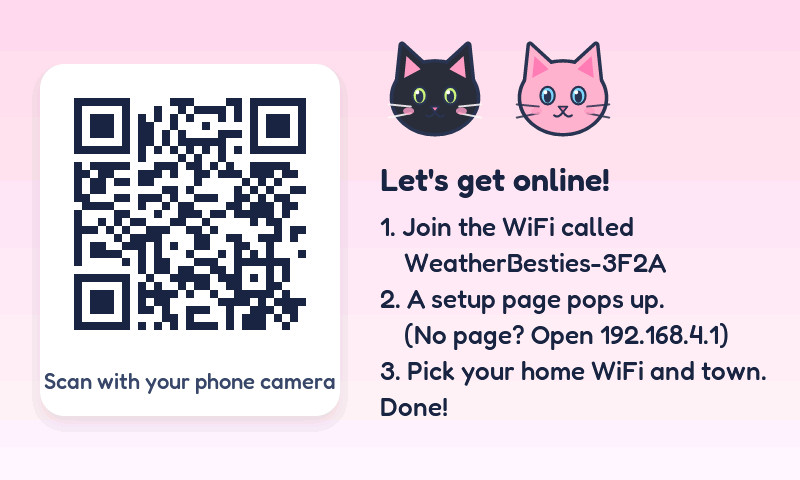
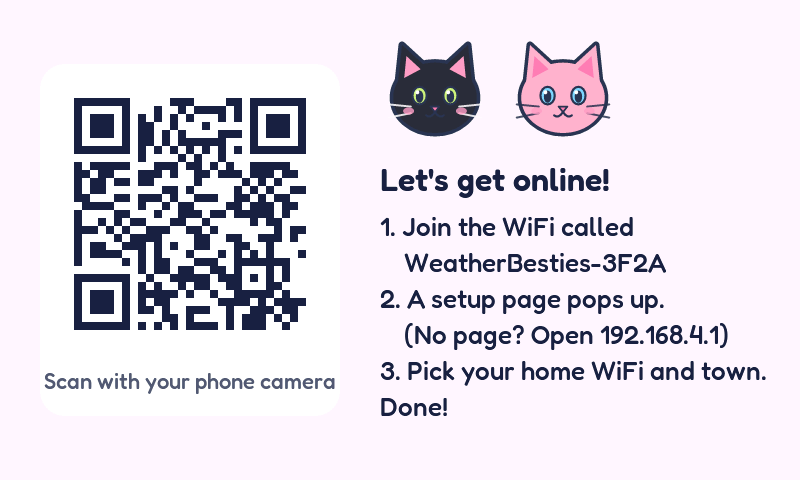
README and screenshots for 2.0
docs/today.png, evening.png and next-days.png are the new renders
(20_morning, 21_evening, 24_next_days); sim/out drops the 1.x
screenshots and gains the full 2.0 set. The README describes the
outfit tiles, the check-off flow, stale-data behavior and the cat
picker, and notes the firmware/ images are still v1.4.0 until an
ESP-IDF build refreshes them.

diff --git a/README.md b/README.md
@@ -12,18 +12,19 @@ This is not a general weather dashboard. It answers one kid-sized question in wo
 
 **What kind of clothes do I need?**
 
-- **The night before:** after 7 PM, the advice switches to tomorrow, so they can lay out clothes before bed.
+- **The night before:** from 5 PM, the screen switches to tomorrow, so they can lay out clothes before bed.
 - **In the morning:** they can see right away if it is going to be cold, rainy, snowy, or warm, and whether yesterday's plan still works.
 
-## What it shows
+## What it shows (new in 2.0)
 
-- **Top left:** the weather right now in big friendly type, a weather picture, and one line like "Partly cloudy · High 61°".
-- **Middle:** a black cat with yellow eyes, dressed for the day, and a speech bubble that is the cat talking: "Chilly morning! Bring a jacket!" with pictures of what to wear (jacket, beanie, mittens, umbrella, boots...), picked from feels-like temperature, rain, snow, storms, and sun.
-- **Bottom:** the school day in their words: **Walk to school** (8 AM), **Recess** (noon), **Going home** (3 PM). Swipe left for the next three days.
-- Weather moves behind the today page: rain, snow, sleet, thunderstorms, autumn leaves on fall days, stars on clear nights.
-- The cat dresses up for October (witch hat and a jack-o'-lantern), Hanukkah (scarf and a menorah that gains a candle each night), and Christmas (Santa hat and a present). Otherwise it dresses for the weather.
-- After 7 PM the bubble switches to tomorrow, so they can lay out the right clothes before bed.
-- **Bike bus day** (Friday by default): if the 8 AM feels-like is 50°F or below, the bubble reminds everyone to wear gloves for bike bus. The evening before, it says to lay them out.
+- **Garment tiles:** big picture tiles for exactly what to wear (long sleeves, long pants, warm coat, sneakers...), picked by the outfit engine in `components/wb_ui/outfit.c` from the feels-like temperature over the school day (7 AM to 5 PM), rain, snow, storms, wind, and sun. Tap a tile as each item gets laid out: it turns green with a check. Check them all and the screen celebrates: "All dressed. Have a great day!"
+- **The cat, full body:** a cat wearing the same outfit the tiles recommend, so the picture and the list always agree. One plain sentence under the tiles explains the day: "Cold this morning, warm after lunch. Take your warm coat off later." An icon next to it flags the one important extra (umbrella, hat and gloves, water bottle, storm bolt...).
+- **Top right:** the weather in words a kid can use: "33° now", "High 64° · Low 32°". Tomorrow gets "High 55°" and "Low 46° · Rain 80%".
+- **Tabs at the bottom:** Today, Tomorrow, and Next days (three plain forecast cards with the one key garment for each day). Swipe works too. After 3 idle minutes the screen falls back to the page for the time of day.
+- **Honest about stale data:** if the weather is over 90 minutes old, a chip says when it is from ("Weather from 11:45 AM"). Over 12 hours (or no data), the cat looks puzzled and says "I can't check the weather right now." instead of prescribing from stale numbers.
+- The cat dresses up for October (witch hat and a jack-o'-lantern), Hanukkah (a menorah that gains a candle each night), and Christmas (Santa hat and a present), but a real prescription always wins: a cold Halloween gets the warm hat, not the witch hat.
+- **Bike bus day** (Friday by default): if the 8 AM feels-like is 50°F or below, the sentence reminds everyone to wear gloves for bike bus. The evening before, it says to lay them out.
+- **Your cat, your choice:** Settings (long press) now has a cat picker: black cat, pink cat, or take turns (they swap daily). The two boot-screen cats are the same pair.
 - An optional "screen off at night" mode. A tap wakes the screen for a minute.
 
 ![Evening screen](docs/evening.png)
@@ -46,6 +47,8 @@ Weather data comes from [Open-Meteo](https://open-meteo.com): free for non-comme
 
 ## Flash it
 
+Note: the 2.0.0 source is on `main`, but the prebuilt images in `firmware/` are still v1.4.0. Refreshing them takes an ESP-IDF build (`idf.py build`, then `esptool merge_bin` for the full image); flashing the source build works as described under "Build from source" below.
+
 Both files are in `firmware/`:
 
 - **First time (or to start fresh):** `weather-besties-v1.4.0.bin` at address `0x0`. It's the whole thing (bootloader, partition table, and app), and it wipes saved WiFi and town, so setup runs again.
@@ -66,7 +69,7 @@ python -m esptool --chip esp32s3 write_flash 0x10000 firmware/weather-besties-v1
 
 1. The screen shows a QR code and a hotspot name like `WeatherBesties-3F2A`.
 2. Scan the QR with a phone (or join that WiFi network by hand). A setup page pops up. If it doesn't, open `http://192.168.4.1`.
-3. Pick the home WiFi, type the password, then set: town or ZIP, names for the greeting, °F or °C, bike bus day, and optional night hours. Save.
+3. Pick the home WiFi, type the password, then set: town or ZIP, the kids' names (used in the "Nice job" message), °F or °C, bike bus day, and optional night hours. Save.
 4. The board restarts, joins WiFi, and shows the weather.
 
 ![Setup screen](docs/setup.png)
@@ -75,24 +78,20 @@ Defaults if you skip things: Upper Montclair, NJ, "Cleo & Lila", Fahrenheit, bik
 
 ## Using it
 
-- Swipe left for the next three days, right to come back. The page flips the moment the finger lifts (no dragging: moving the whole screen under a finger is the slowest thing this chip draws). A swipe is 80 px or more sideways from where the finger went down (`on_indev()` in `ui.c`); a finger that moved that far doesn't count as a tap or a long press.
-- Hold your finger on the greeting, the clock, or any empty spot for 1.5 seconds to open Settings (change WiFi or town, refresh now). Settings are stored on the board and survive reboots and app updates.
-- The school-day cards: moments that already happened fade out, and after 3:30 PM the cards switch to tomorrow. Weekends, July and August, and Dec 24 to Jan 1 show Morning (9 AM), Lunchtime and Afternoon instead (`wx_kid_moments()` in `components/wb_ui/wx.c`; other days off still say "Walk to school"). The rain chance only shows at 30% or more.
-- The next-days page compares each day with the one before: warmer or colder (by the daily high), sunnier or cloudier (by hours of sun). A drop of 12°F or more says "a lot colder" and adds gloves.
-- Weather animations: rain, drizzle, heavy rain, sleet, snow, thunderstorms (rain plus a lightning flicker every 5-10 s), autumn leaves (Sep 22 to Nov 30), and twinkling stars on clear nights. The rules are `cat_pick_fx()` in `cat.c`; the motion is one 30 fps timer in `ui.c` (`fx_tick()`), and pieces only fall in the open sky left of the bubble and above the cards.
+- Tap the garment tiles to check things off as they get laid out. The check marks belong to the outfit's day: a new day starts unchecked.
+- Use the Today / Tomorrow / Next days tabs, or swipe left and right. The page flips the moment the finger lifts (no dragging: moving the whole screen under a finger is the slowest thing this chip draws). A swipe is 80 px or more sideways from where the finger went down (`on_indev()` in `ui.c`); a finger that moved that far doesn't count as a tap or a long press. After 3 idle minutes the screen returns to the page for the time of day (Today before 5 PM, Tomorrow from 5 PM).
+- Hold your finger on any empty spot for 1.5 seconds to open Settings (cat choice, change WiFi or town, refresh now, speed test). Settings are stored on the board and survive reboots and app updates.
 - With "screen off at night" on, the screen sleeps during those hours. A tap wakes it for a minute (that first tap doesn't press anything). Weather keeps updating in the background, so the morning screen is fresh.
-- The cat sits on the school-day cards next to its speech bubble. It blinks, and hops when you tap it. What it wears (rules in `components/wb_ui/cat.c`):
-  - **October:** witch hat, purple cape with an orange bow, and a jack-o'-lantern.
-  - **Hanukkah:** blue-and-white scarf and a menorah. Candles light at 4 PM, one more each night, added from the right. Dates come from Hebcal for 2025-2035; add years to the `HANUKKAH` table after that.
+- The cat blinks, and hops when you tap it. What it wears is the outfit engine's prescription (`components/wb_ui/outfit.c`), plus seasonal touches from `components/wb_ui/cat.c`:
+  - **October:** witch hat and a jack-o'-lantern, unless a warm hat is prescribed (the prescription wins).
+  - **Hanukkah:** a menorah. Candles light at 4 PM, one more each night, added from the right. Dates come from Hebcal for 2025-2035; add years to the `HANUKKAH` table after that.
   - **Dec 15-26:** Santa hat and a present. If Hanukkah overlaps, Santa hat and the menorah.
-  - **Snowing right now:** snowflakes fall around the cat, whatever it's wearing.
-  - **Otherwise:** dressed like the speech bubble says. Rain hat with the umbrella, pink beanie and scarf when it's cold, scarf when it's chilly, heart sunglasses on strong-sun days.
 
 ## Try it without the board
 
 The UI, weather parsing, and advice logic are plain C with no ESP-IDF dependencies, so the exact same code runs on a PC and in a browser.
 
-**Browser simulator:** `make web` in `sim/` writes `sim/web/site/Weather-Besties-Simulator.html`. Double-click it; it works offline. It's the board's real screen code compiled to WebAssembly. The mouse is the finger: drag sideways to swipe, click the cat to make it hop, hold the greeting 1.5 seconds for Settings. **Live weather** fetches today's forecast for Upper Montclair with the same request the board sends; the other buttons are sample days, including the holidays.
+**Browser simulator:** `make web` in `sim/` writes `sim/web/site/Weather-Besties-Simulator.html`. Double-click it; it works offline. It's the board's real screen code compiled to WebAssembly. The mouse is the finger: drag sideways to swipe, click the cat to make it hop, hold any empty spot 1.5 seconds for Settings. **Live weather** fetches today's forecast for Upper Montclair with the same request the board sends; the other buttons are sample days, including the holidays.
 
 **Screenshots of every screen** (Linux, or WSL on Windows):
 
@@ -106,7 +105,7 @@ make shots      # PNGs in sim/out/, sample forecasts generated into sim/scenario
 
 ## Speed test on the board
 
-Tap "Updated 7:45 AM" at the bottom right. A meter appears bottom left with frames per second and CPU, and the footer shows how many screen lines are drawn per pass and how much internal RAM is free. Tap again for the old v1.3.0 settings (small drawing area, blurred bubble shadow, whole-card fading) to compare, and a third time to turn it off.
+Open Settings (long press) and tap "Speed test". A meter appears bottom left with frames per second and CPU, and the readout in Settings shows how many screen lines are drawn per pass and how much internal RAM is free. Tap again for the old v1.3.0 settings (small drawing area, blurred shadows) to compare, and a third time to turn it off.
 
 The drawing area starts at 40 lines (the same 64 KB of internal RAM v1.3.0 used). After the first successful weather download it grows to 100, 80 or 60 lines, whichever leaves at least 64 KB of internal RAM free (`board_grow_draw_buffer()` in `main/board.c`). If a download fails while free internal RAM is under 24 KB, it shrinks back. The serial log prints the free RAM after every refresh.
 
@@ -133,10 +132,10 @@ Everything else is already in `components/`: LVGL 9.5.0, Espressif's GT911 touch
 | `main/net.c` | WiFi, clock (SNTP), Open-Meteo calls, refresh and retry loop |
 | `main/portal.c` | Setup hotspot, captive portal, phone form |
 | `main/settings.c` | Saved settings (NVS) |
-| `components/wb_ui/ui.c` | All screens, the weather animations, swipes |
-| `components/wb_ui/cat.c` | Picks the cat's outfit and the weather animation (holidays, weather) |
-| `components/wb_ui/advice.c` | What-to-wear rules (temperature bands, rain, snow, storms, sun) |
-| `components/wb_ui/wx.c` | Forecast parsing, school-day moments |
+| `components/wb_ui/ui.c` | All screens: outfit pages, forecast page, settings, swipes |
+| `components/wb_ui/cat.c` | The cat's seasonal touches (holidays) |
+| `components/wb_ui/outfit.c` | The outfit engine: what-to-wear rules over the school-day window (feels-like bands, rain, snow, storms, wind, sun) and the advice sentences |
+| `components/wb_ui/wx.c` | Forecast parsing (hourly wind gusts feed the outfit engine's windy rule) |
 | `components/wb_ui/wb_request.c` | Builds the Open-Meteo request addresses; buffer sizes in `wb_request.h` |
 | `components/lv_conf.h` | LVGL settings, shared with the PC renderer |
 | `tools/icons.py` | The artwork (weather faces, clothes, cats, the cat's outfits, falling leaves), drawn as SVG |
@@ -148,11 +147,10 @@ Everything else is already in `components/`: LVGL 9.5.0, Espressif's GT911 touch
 
 ## Tweaking
 
-- Clothing rules: the `BANDS` table at the top of `components/wb_ui/advice.c` (temperatures are feels-like in °F).
-- School times and card names: `wx_kid_moments()` in `components/wb_ui/wx.c`.
-- Where things sit on the today screen: `build_today()` in `components/wb_ui/ui.c`. The cat's size is `KITTY_SETS` in `tools/make_assets.py` (currently 1.5x the original drawing).
-- Bike bus cutoff and "a lot colder" threshold: `BIKE_BUS_COLD_F` and `BIG_CHANGE_F` in `components/wb_ui/advice.h`.
-- Colors: the theme table at the top of `components/wb_ui/ui.c`.
+- Clothing rules: `components/wb_ui/outfit.c` (thresholds are feels-like in °F; the school-day window and departure hour are at the top of `outfit_make()`).
+- Where things sit on the outfit pages: `build_outfit_page()` and `render()` in `components/wb_ui/ui.c`. The cat's stage is 260x252 (`CAT2_W`, `CAT2_H` in `tools/icons.py`); each dressed-cat layer is drawn on that stage in `tools/icons.py` and cropped by `tools/make_assets.py`.
+- Bike bus cutoff: `BIKE_BUS_COLD_F` in `components/wb_ui/outfit.h`.
+- Colors: the palette at the top of `components/wb_ui/ui.c`.
 - Artwork: edit `tools/icons.py`, then run `python3 tools/make_assets.py` (needs `pip install resvg-py pillow pypng` and `npm install lv_font_conv` inside `tools/`).
 
 ## On the real board
